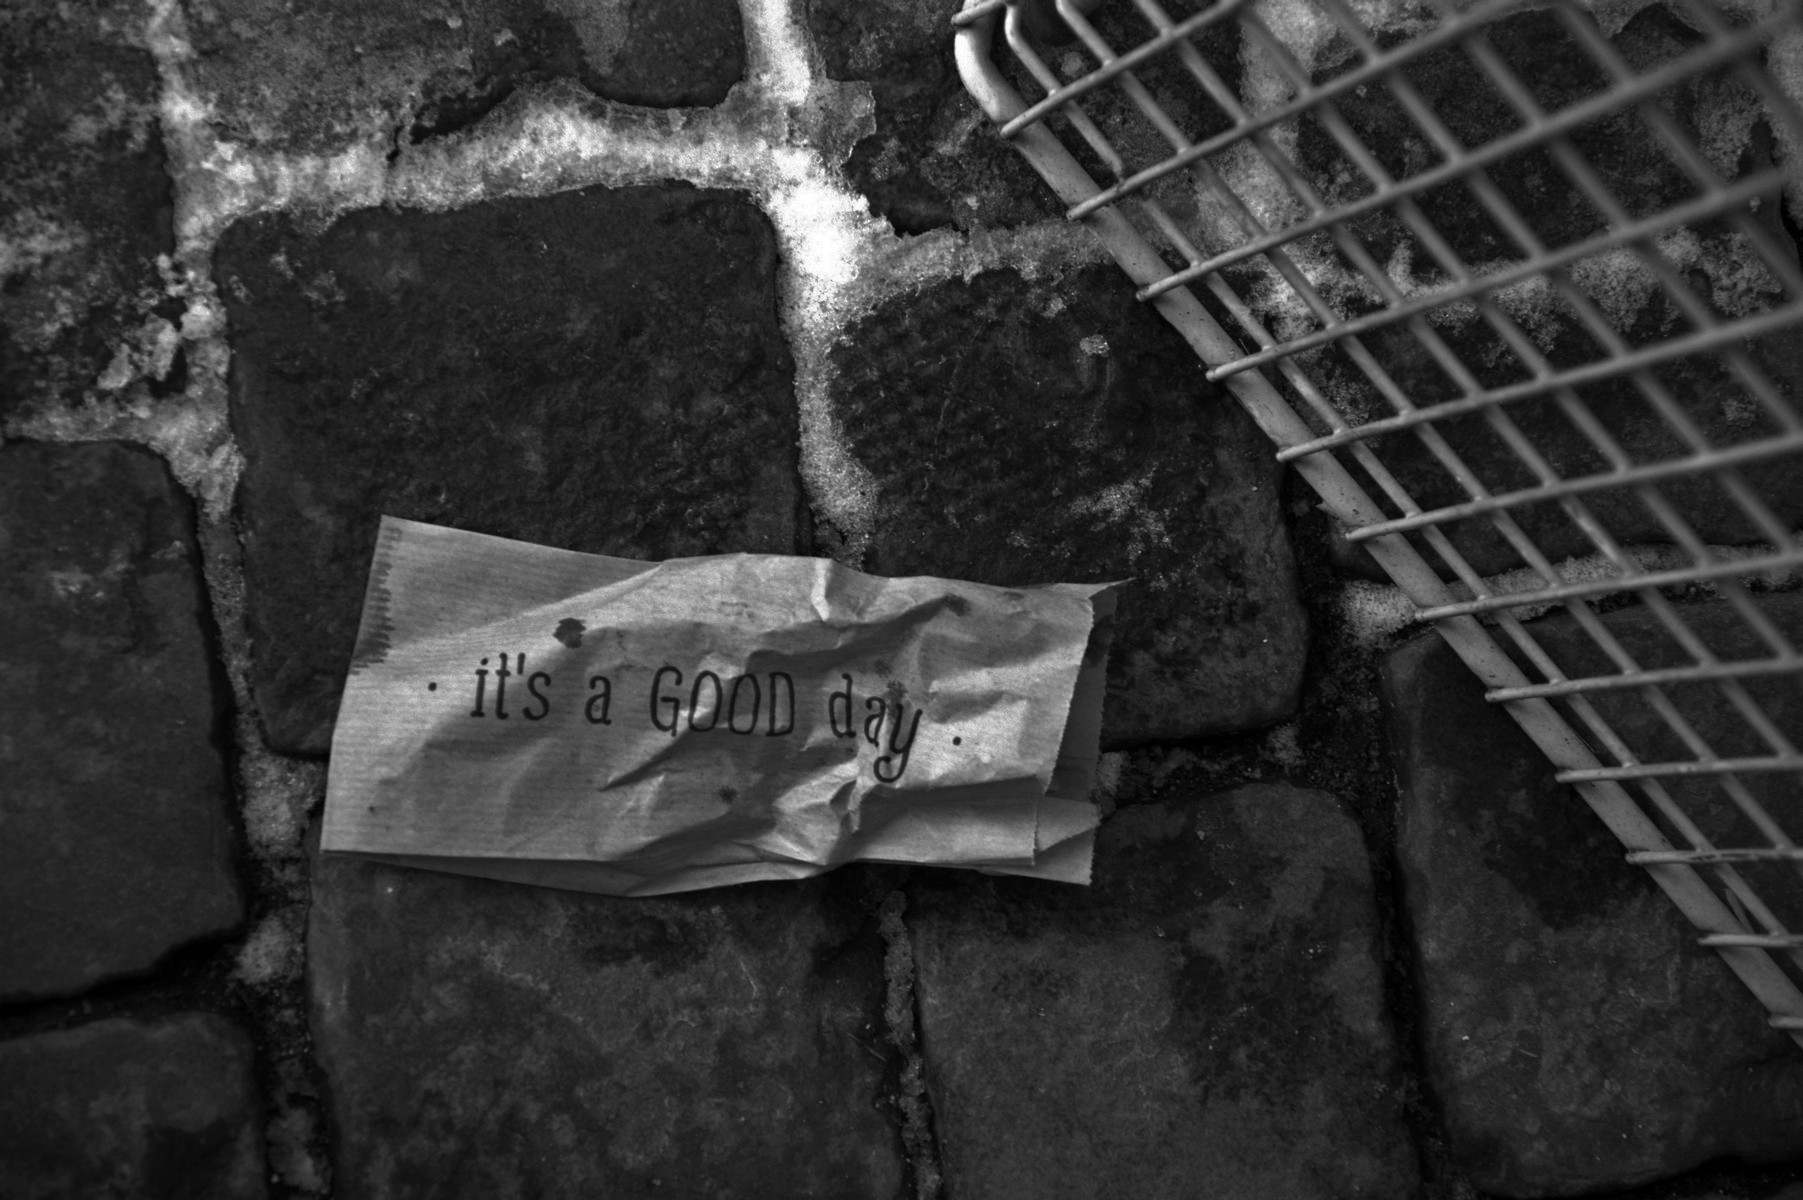
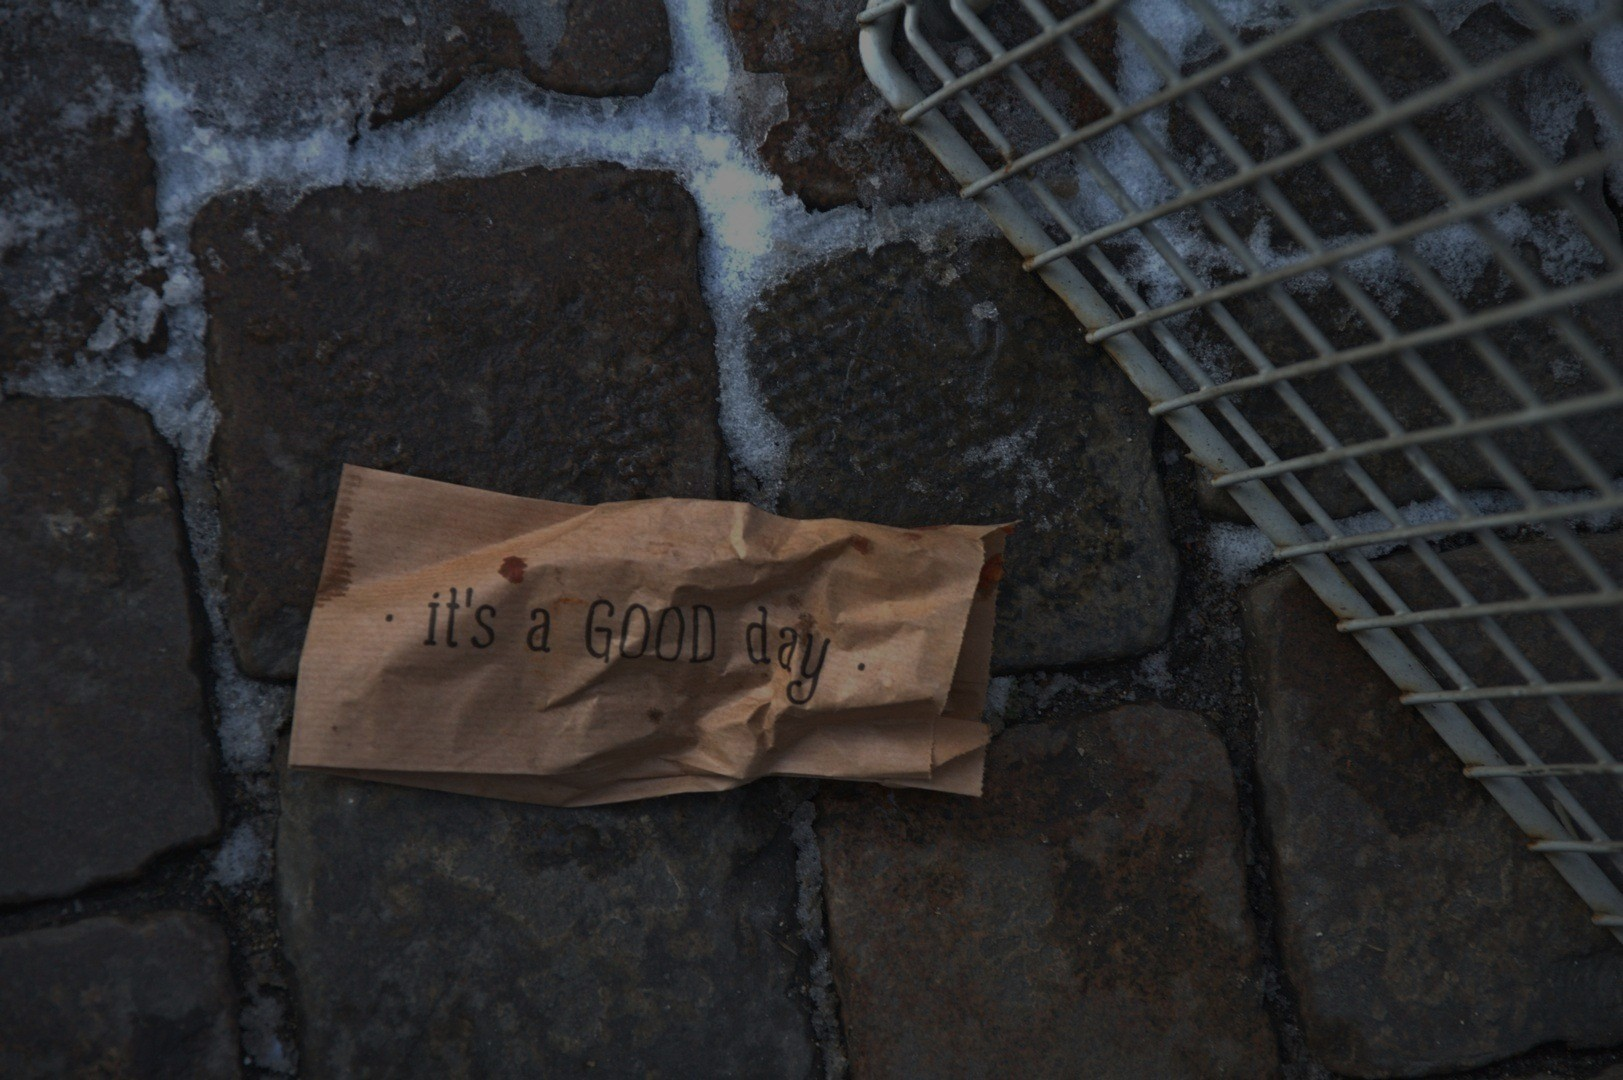
Almost there!

diff --git a/main.css b/main.css
@@ -16,14 +16,18 @@ h1 {
 }
 h2 {
 	font-weight: bold;
-	font-size: 4rem;
-	padding: 25px 0 50px;
+	font-size: 3.6rem;
+	padding: 15px 0 19px;
 }
 h3 {
-	font-size: 3rem;
+	font-size: 2.8rem;
+}
+img {
+	display: inline-block;
 }
 p {
-	font-size: 2rem;
+	font-size: 1.6rem;
+	text-align: justify;
 }
 a {
 	font-size: 1.6rem;
@@ -33,23 +37,24 @@ a {
 }
 .left {
 	float: left;
+	margin: 0 20px;
 }
 .right {
 	float: right;
+	margin: 0 20px;
 }
-
-/** Header **/
-.fs-header {
-  background-color: rgb(51, 51, 51);
-  background-position: center center;
-  background-repeat: no-repeat;
-  background-size: cover;
-  height: 100vh;
+.fs {
+	height: 100vh;
   min-height: 350px;
   position: relative;
   width: 100%;
 }
-.head-contain {
+
+/** Header **/
+.header {
+  background-color: rgb(51, 51, 51);
+}
+header {
 	display: table;
 	margin: 0 auto;
 	height: 100%;
@@ -63,8 +68,9 @@ a {
   vertical-align: middle;
 }
 .head-content h1 {
-  font-size: 2.5rem;
+  font-size: 3.5rem;
   letter-spacing: -0.1rem;
+  line-height: 5rem;
 }
 
 /** Header buttons **/
@@ -75,7 +81,7 @@ a {
 	color: rgb(255, 255, 255);
 	display: inline-block;
 	font-weight: bold;
-	font-size: 1.1rem;
+	font-size: 1.3rem;
 	height: auto;
 	letter-spacing: 0rem;
 	margin: 3.6rem 0 0;
@@ -100,7 +106,7 @@ a {
 	bottom: 2%;
 	color: rgb(174, 198, 207);
 	display: inline-block;
-	font-size: 1.1rem;
+	font-size: 1.3rem;
 	left: 50%;
 	padding: 20px;
 	position: absolute;
@@ -116,6 +122,12 @@ a {
 }
 
 @media screen and (min-width: 720px) {
+  .header {
+  	background-image: url("pics/goodday.jpg");
+  	background-position: center center;
+  	background-repeat: no-repeat;
+  	background-size: cover;
+  }
   .head-content h1 {
     font-size: 4.5rem;
   }
@@ -151,40 +163,55 @@ a {
 }
 .onethirdcol {
 	display: inline-block;
-	padding: 0 7rem;
+	padding: 1rem 7rem;
 	vertical-align: top;
 	width: 100%
 }
 
-@media screen and (min-width: 720px) {
+@media screen and (min-width: 992px) {
 	.onethirdcol {
 		padding: 0 5rem;
 		width: 33%;
 	}
 }
 
-/** Contact **/
+/** Footer and contact **/
 #contact {
 	color: rgb(51, 51, 51);
 }
 .collaborate {
 	background-color: rgb(174, 198, 207);
-	min-height: 80vh;
-}
-
-/** Footer **/
-footer {
-	background-color: rgb(51, 51, 51);
-	min-height: 20vh;
-	padding: 15px 0 19px;
+	min-height: 100vh;
+	margin: 0 auto;
 	text-align: center;
 }
-footer p {
+.collaborate img {
+	border-radius: 20vh;
+	height: 120px;
+	margin-right: 20px;
+	vertical-align: top;
+	width: 120px;
+}
+.collaborate p {
+	display: inline-block;
+	width: 50%;
+}
+.links {
+	background-color: rgb(51, 51, 51);
+	padding: 15px 0 19px;
+	position: absolute;
+	bottom: 0;
+	text-align: center;
+	width: 100%;
+	z-index: 1;
+}
+.links p {
 	font-size: 1.4rem;
 	margin: 20px 0;
 	color: rgb(174, 198, 207);
+	text-align: center;
 }
-footer .links a {
+.links a {
 	color: rgb(174, 198, 207);
 	display: inline-block;
 	height: 30px;
@@ -192,6 +219,6 @@ footer .links a {
 	transition: color .2s ease-in;
 	width: 30px;
 }
-footer .links a:hover {
+.links a:hover {
 	color: rgb(255, 255, 255);
 }

diff --git a/index.html b/index.html
@@ -23,11 +23,10 @@
 
   <body>
   	<div class="wrapper">
-  	  <div class="fs-header">
-  	    <div class="head-contain">
+  	  <div class="fs header">
+  	    <header>
           <div class="head-content">
-            <h1>Hi, my name is Mikkel</h1>
-            <h1>I am a software developer.</h1>
+            <h1>Hi, my name is Mikkel<br>I am a software developer.</h1>
             <div>
               <a href="#contact" class="forhire">Let's work together</a>
             </div>
@@ -35,7 +34,7 @@
               <a href="#about" class="aboutme">What I do<br><i class="fa fa-caret-down"></i></a>
             </div>
           </div> <!-- content -->
-        </div>
+        </header>
   	  </div> <!-- header -->
     </div> <!-- wrapper -->
 
@@ -63,23 +62,25 @@
     </section> <!-- What I do! -->
 
     <section id="contact">
-      <div class="collaborate">
-        <h1></h1>
-      </div>
-      <footer>
-        <p>I made this in 2017.</p>
-        <div class="links">
-          <a href="mailto:mtn.dtu@gmail.com">
-            <i class="fa fa-envelope-o"></i>
-          </a>
-          <a href="https://www.linkedin.com/in/mikkeltrostnielsen/" target="_blank">
-            <i class="fa fa-linkedin"></i>
-          </a>
-          <a href="https://github.com/MikkelTN" target="_blank">
-            <i class="fa fa-github"></i>
-          </a>
-        </div>
-      </footer>
+      <footer class="fs">
+          <div class="collaborate">
+            <h2>Contact me</h2>
+              <img src="pics/mikkel.jpg" alt="Mikkel Trøst Nielsen">
+              <p>I live in Copenhagen and I am always interested in new challenges. If you are interested in working with me or have any questions, feel free to check out my LinkedIn or GitHub profiles or contact me for more information.</p>
+          </div>
+          <div class="links">
+            <p>I made this in 2017.</p>
+            <a href="mailto:mtn.dtu@gmail.com">
+              <i class="fa fa-envelope-o"></i>
+            </a>
+            <a href="https://www.linkedin.com/in/mikkeltrostnielsen/" target="_blank">
+              <i class="fa fa-linkedin"></i>
+            </a>
+            <a href="https://github.com/MikkelTN" target="_blank">
+              <i class="fa fa-github"></i>
+            </a>
+          </div>
+        </footer>
     </section>
 
     <script type="text/javascript" src="https://cdnjs.cloudflare.com/ajax/libs/jquery/3.2.0/jquery.min.js"></script>
